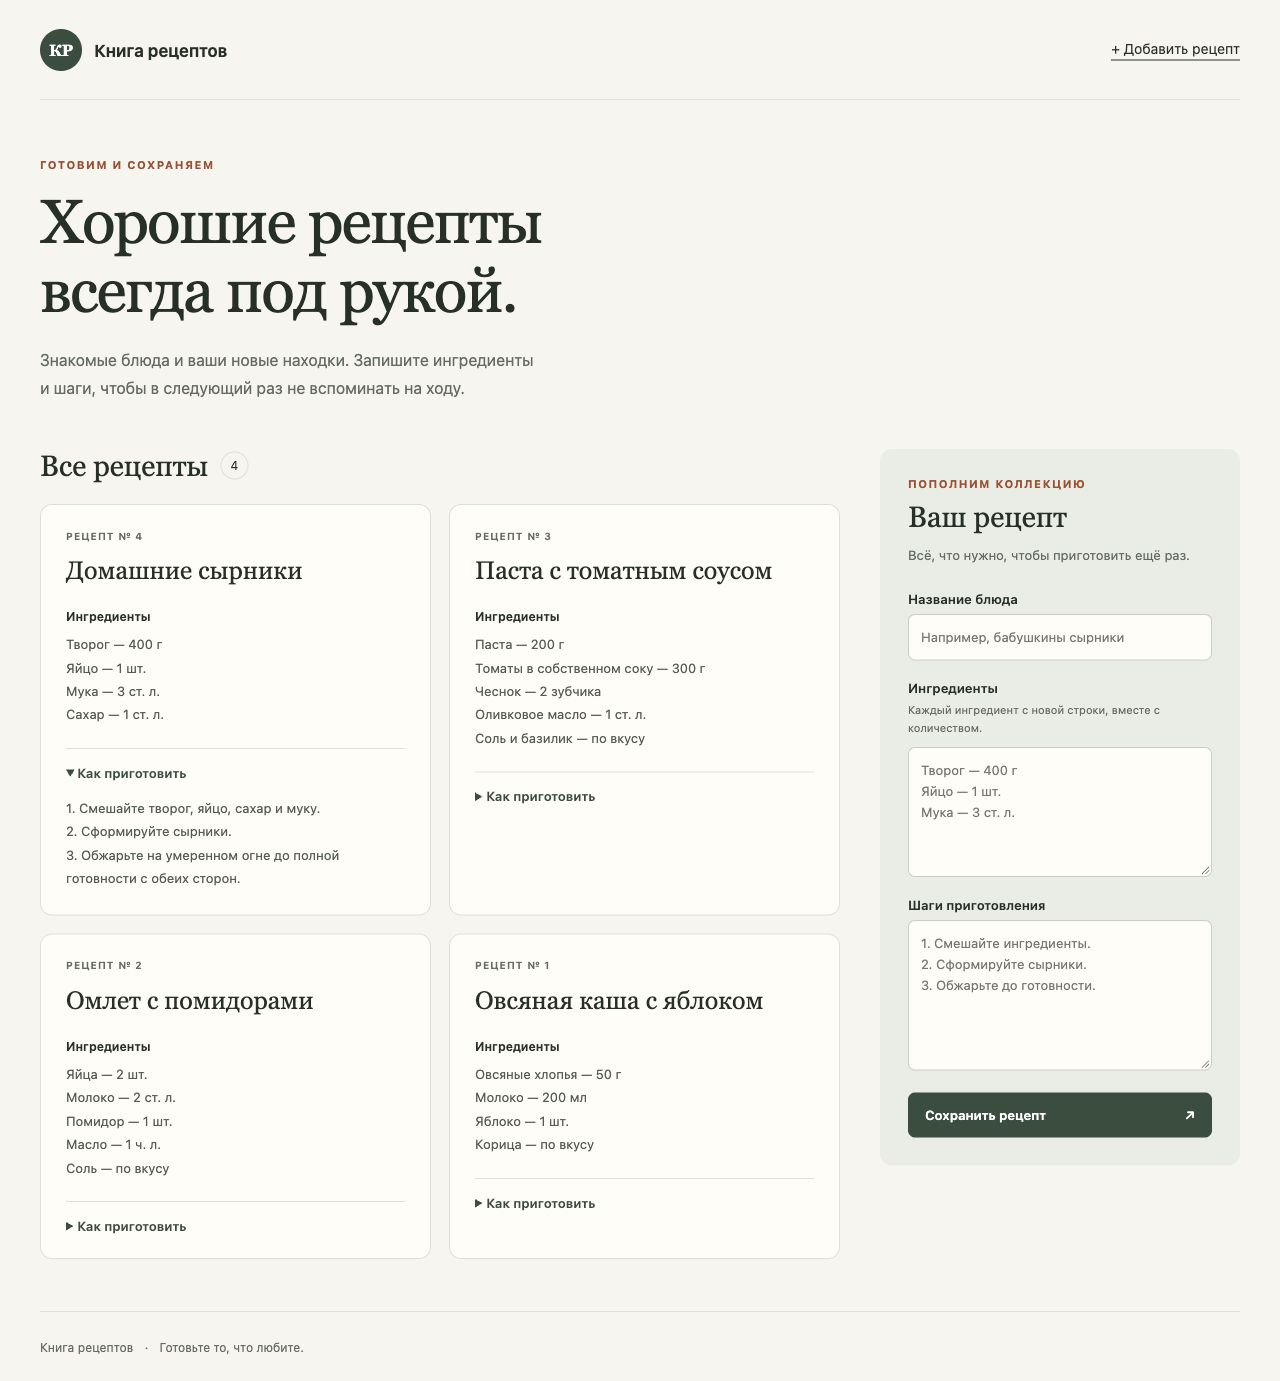
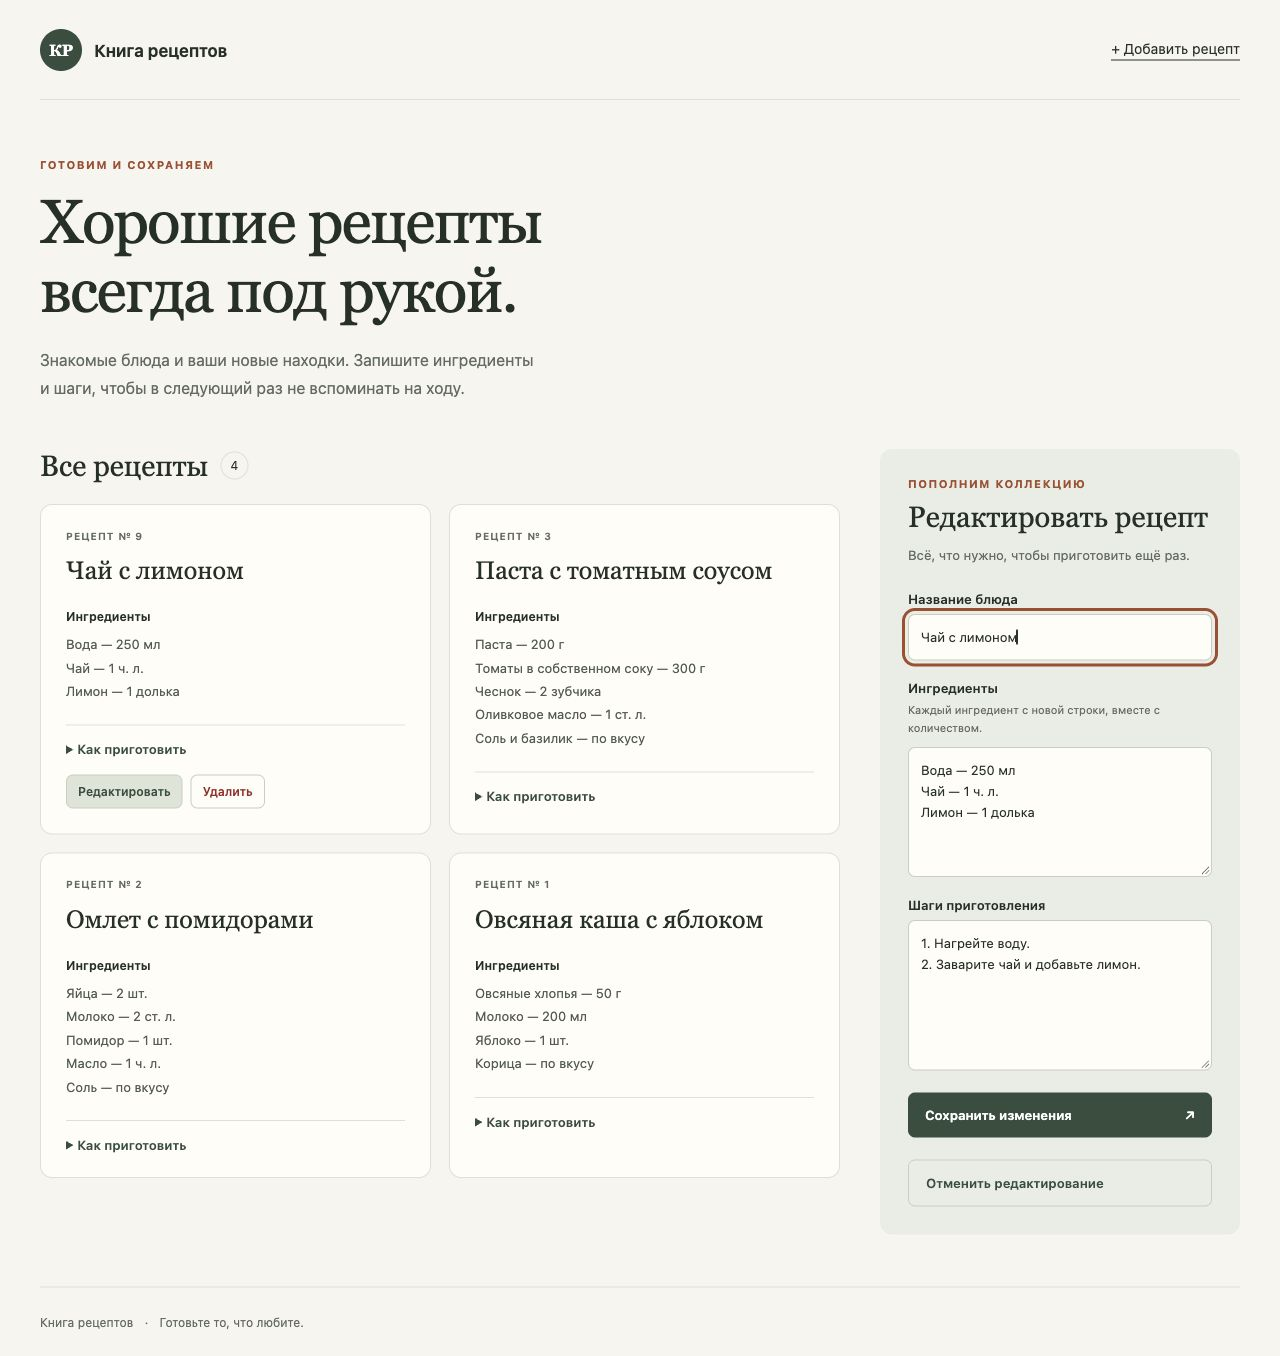
added support for editing and deleting user made recipes

diff --git a/frontend/app.js b/frontend/app.js
@@ -5,11 +5,16 @@ const form = document.querySelector("#recipe-form");
 const formStatus = document.querySelector("#form-status");
 const submit = document.querySelector("#submit-recipe");
 const template = document.querySelector("#recipe-template");
+const formTitle = document.querySelector("#form-title");
+const submitLabel = document.querySelector("#submit-label");
+const cancelEdit = document.querySelector("#cancel-edit");
+const deleteDialog = document.querySelector("#delete-dialog");
+let editingId = null;
 
-async function requestRecipes(options) {
+async function requestRecipes(options, id) {
   let response;
   try {
-    response = await fetch("/api/recipes", options);
+    response = await fetch(id === undefined ? "/api/recipes" : `/api/recipes/${id}`, options);
   } catch {
     throw new Error("Не удалось связаться с сервером. Проверьте список перед повторной отправкой.");
   }
@@ -24,13 +29,68 @@ async function requestRecipes(options) {
 }
 
 function recipeCard(recipe) {
-  const card = template.content.cloneNode(true);
+  const card = template.content.firstElementChild.cloneNode(true);
+  card.dataset.id = recipe.id;
   card.querySelector(".recipe-number").textContent = `РЕЦЕПТ № ${recipe.id}`;
   card.querySelector(".recipe-title").textContent = recipe.title;
   card.querySelector(".recipe-ingredients").textContent = recipe.ingredients;
   card.querySelector(".recipe-instructions").textContent = recipe.instructions;
+  card.querySelector(".recipe-actions").hidden = Boolean(recipe.is_builtin);
+  card.querySelector(".edit-recipe").addEventListener("click", () => {
+    editingId = recipe.id;
+    for (const field of ["title", "ingredients", "instructions"]) {
+      form.elements[field].value = recipe[field];
+    }
+    formTitle.textContent = "Редактировать рецепт";
+    submitLabel.textContent = "Сохранить изменения";
+    cancelEdit.hidden = false;
+    formStatus.textContent = "";
+    formStatus.classList.remove("error");
+    form.elements.title.focus();
+  });
+  card.querySelector(".delete-recipe").addEventListener("click", () => {
+    document.querySelector("#delete-description").textContent = `Рецепт «${recipe.title}» будет удалён.`;
+    deleteDialog.returnValue = "cancel";
+    deleteDialog.addEventListener("close", async () => {
+      if (deleteDialog.returnValue !== "delete") return;
+      setBusy(true);
+      listStatus.classList.remove("error");
+      try {
+        await requestRecipes({ method: "DELETE" }, recipe.id);
+        card.remove();
+        if (editingId === recipe.id) {
+          resetEditor();
+          formStatus.textContent = "Рецепт удалён.";
+        }
+        updateCount();
+      } catch (error) {
+        listStatus.textContent = error.message;
+        listStatus.classList.add("error");
+      } finally {
+        setBusy(false);
+      }
+    }, { once: true });
+    deleteDialog.showModal();
+  });
   return card;
 }
+
+function setBusy(busy) {
+  for (const control of form.elements) control.disabled = busy;
+  for (const button of recipes.querySelectorAll("button")) button.disabled = busy;
+}
+
+function resetEditor() {
+  editingId = null;
+  form.reset();
+  formTitle.textContent = "Ваш рецепт";
+  submitLabel.textContent = "Сохранить рецепт";
+  cancelEdit.hidden = true;
+  formStatus.textContent = "";
+  formStatus.classList.remove("error");
+}
+
+cancelEdit.addEventListener("click", resetEditor);
 
 function updateCount() {
   count.textContent = recipes.childElementCount;
@@ -52,26 +112,33 @@ async function loadRecipes() {
 
 form.addEventListener("submit", async (event) => {
   event.preventDefault();
+  if (submit.disabled) return;
+  const id = editingId;
+  const payload = JSON.stringify(Object.fromEntries(new FormData(form)));
   formStatus.textContent = "Сохраняем…";
   formStatus.classList.remove("error");
-  submit.disabled = true;
+  setBusy(true);
 
   try {
     const recipe = await requestRecipes({
-      method: "POST",
+      method: id === null ? "POST" : "PUT",
       headers: { "Content-Type": "application/json" },
-      body: JSON.stringify(Object.fromEntries(new FormData(form))),
-    });
-    recipes.prepend(recipeCard(recipe));
+      body: payload,
+    }, id === null ? undefined : id);
+    if (id === null) {
+      recipes.prepend(recipeCard(recipe));
+    } else {
+      recipes.querySelector(`[data-id="${id}"]`).replaceWith(recipeCard(recipe));
+    }
     listStatus.classList.remove("error");
     updateCount();
-    form.reset();
-    formStatus.textContent = "Рецепт сохранён. Можно готовить!";
+    resetEditor();
+    formStatus.textContent = id === null ? "Рецепт сохранён. Можно готовить!" : "Изменения сохранены.";
   } catch (error) {
     formStatus.textContent = error.message;
     formStatus.classList.add("error");
   } finally {
-    submit.disabled = false;
+    setBusy(false);
   }
 });
 

diff --git a/frontend/index.html b/frontend/index.html
@@ -49,7 +49,8 @@
           <label for="instructions">Шаги приготовления</label>
           <textarea id="instructions" name="instructions" rows="6" maxlength="10000" placeholder="1. Смешайте ингредиенты.&#10;2. Сформируйте сырники.&#10;3. Обжарьте до готовности." required></textarea>
 
-          <button id="submit-recipe" type="submit" disabled>Сохранить рецепт <span aria-hidden="true">↗</span></button>
+          <button id="submit-recipe" type="submit" disabled><span id="submit-label">Сохранить рецепт</span> <span aria-hidden="true">↗</span></button>
+          <button id="cancel-edit" class="secondary" type="button" hidden>Отменить редактирование</button>
           <p class="form-status" id="form-status" role="status" aria-live="polite"></p>
         </form>
       </aside>
@@ -57,6 +58,16 @@
   </main>
 
   <footer>Книга рецептов <span aria-hidden="true">·</span> Готовьте то, что любите.</footer>
+
+  <dialog id="delete-dialog" aria-labelledby="delete-title" aria-describedby="delete-description">
+    <h2 id="delete-title">Удалить рецепт?</h2>
+    <p id="delete-description"></p>
+    <p>Это действие нельзя отменить.</p>
+    <form method="dialog" class="recipe-actions">
+      <button class="secondary" value="cancel" autofocus>Отмена</button>
+      <button class="secondary delete-recipe" value="delete">Удалить рецепт</button>
+    </form>
+  </dialog>
 
   <template id="recipe-template">
     <article class="recipe-card">
@@ -68,6 +79,10 @@
         <summary>Как приготовить</summary>
         <p class="recipe-instructions"></p>
       </details>
+      <div class="recipe-actions" hidden>
+        <button class="edit-recipe secondary" type="button">Редактировать</button>
+        <button class="delete-recipe secondary" type="button">Удалить</button>
+      </div>
     </article>
   </template>
 </body>

diff --git a/frontend/style.css b/frontend/style.css
@@ -12,6 +12,7 @@
 }
 
 * { box-sizing: border-box; }
+[hidden] { display: none !important; }
 body { margin: 0; }
 a { color: inherit; }
 .header, main, footer { width: min(1200px, calc(100% - 80px)); margin-inline: auto; }
@@ -51,6 +52,14 @@ textarea { resize: vertical; min-height: 110px; }
 button { display: flex; justify-content: space-between; align-items: center; gap: 10px; width: 100%; border: 0; border-radius: 7px; background: var(--green); color: #fff; padding: 15px 17px; margin-top: 22px; cursor: pointer; font-size: 13px; font-weight: 600; }
 button:hover { background: #263e2e; }
 button:disabled { opacity: .6; cursor: wait; }
+.secondary { background: transparent; color: var(--green); border: 1px solid #c8cec2; }
+.secondary:hover { background: #dde4d6; }
+.recipe-actions { display: flex; flex-wrap: wrap; gap: 8px; margin-top: 18px; }
+.recipe-actions button { width: auto; margin-top: 0; padding: 9px 11px; font-size: 12px; }
+.delete-recipe { color: #9b2626; }
+dialog { width: min(440px, calc(100% - 32px)); padding: 28px; border: 1px solid var(--line); border-radius: 12px; background: var(--paper); color: var(--ink); }
+dialog::backdrop { background: rgb(37 47 41 / 45%); }
+dialog p { font-size: 14px; line-height: 1.6; overflow-wrap: anywhere; }
 :focus-visible { outline: 3px solid var(--orange); outline-offset: 3px; }
 .form-status { margin: 12px 0 0; font-size: 13px; line-height: 1.6; color: var(--green); }
 .form-status:empty { display: none; }

diff --git a/backend/app.py b/backend/app.py
@@ -3,7 +3,7 @@ from pathlib import Path
 
 import click
 import mysql.connector
-from flask import Flask, jsonify, request, send_from_directory
+from flask import Flask, abort, jsonify, request, send_from_directory
 from werkzeug.exceptions import HTTPException
 
 
@@ -41,19 +41,18 @@ def index():
 def list_recipes():
     with get_db() as db, db.cursor(dictionary=True) as cursor:
         cursor.execute(
-            "SELECT id, title, ingredients, instructions FROM recipes ORDER BY id DESC"
+            "SELECT id, title, ingredients, instructions, is_builtin FROM recipes ORDER BY id DESC"
         )
         return jsonify(cursor.fetchall())
 
 
-@app.post("/api/recipes")
-def add_recipe():
+def read_recipe():
     if not request.is_json:
-        return jsonify(error="Отправьте рецепт в формате JSON."), 415
+        abort(415, description="Отправьте рецепт в формате JSON.")
 
     data = request.get_json()
     if not isinstance(data, dict):
-        return jsonify(error="Рецепт должен быть JSON-объектом."), 400
+        abort(400, description="Рецепт должен быть JSON-объектом.")
 
     recipe = {}
     for field, label, limit in (
@@ -63,11 +62,17 @@ def add_recipe():
     ):
         value = data.get(field)
         if not isinstance(value, str) or not value.strip():
-            return jsonify(error=f'Заполните поле «{label}».'), 400
+            abort(400, description=f'Заполните поле «{label}».')
         value = value.strip()
         if len(value) > limit:
-            return jsonify(error=f'Поле «{label}»: максимум {limit} символов.'), 400
+            abort(400, description=f'Поле «{label}»: максимум {limit} символов.')
         recipe[field] = value
+    return recipe
+
+
+@app.post("/api/recipes")
+def add_recipe():
+    recipe = read_recipe()
 
     with get_db() as db, db.cursor() as cursor:
         cursor.execute(
@@ -76,7 +81,30 @@ def add_recipe():
         )
         recipe["id"] = cursor.lastrowid
         db.commit()
+    recipe["is_builtin"] = False
     return jsonify(recipe), 201
+
+
+@app.route("/api/recipes/<int:recipe_id>", methods=["PUT", "DELETE"])
+def change_recipe(recipe_id):
+    recipe = read_recipe() if request.method == "PUT" else None
+    with get_db() as db, db.cursor(dictionary=True) as cursor:
+        cursor.execute("SELECT is_builtin FROM recipes WHERE id = %s FOR UPDATE", (recipe_id,))
+        existing = cursor.fetchone()
+        if existing is None:
+            abort(404, description="Рецепт не найден.")
+        if existing["is_builtin"]:
+            abort(403, description="Начальные рецепты нельзя редактировать или удалять.")
+        if request.method == "DELETE":
+            cursor.execute("DELETE FROM recipes WHERE id = %s", (recipe_id,))
+            db.commit()
+            return jsonify(deleted=recipe_id)
+        cursor.execute(
+            "UPDATE recipes SET title = %s, ingredients = %s, instructions = %s WHERE id = %s",
+            (recipe["title"], recipe["ingredients"], recipe["instructions"], recipe_id),
+        )
+        db.commit()
+    return jsonify(id=recipe_id, is_builtin=False, **recipe)
 
 
 @app.errorhandler(mysql.connector.Error)
@@ -126,13 +154,23 @@ def init_db():
                 "id INT AUTO_INCREMENT PRIMARY KEY, "
                 "title VARCHAR(255) NOT NULL, "
                 "ingredients TEXT NOT NULL, "
-                "instructions TEXT NOT NULL"
+                "instructions TEXT NOT NULL, "
+                "is_builtin BOOLEAN NOT NULL DEFAULT FALSE"
                 ") ENGINE=InnoDB DEFAULT CHARSET=utf8mb4"
+            )
+            cursor.execute("SHOW COLUMNS FROM recipes LIKE 'is_builtin'")
+            if cursor.fetchone() is None:
+                cursor.execute("ALTER TABLE recipes ADD COLUMN is_builtin BOOLEAN NOT NULL DEFAULT FALSE")
+            # Legacy seeds were inserted first; matching their content preserves user recipes.
+            cursor.executemany(
+                "UPDATE recipes SET is_builtin = TRUE WHERE id = %s "
+                "AND title = %s AND ingredients = %s AND instructions = %s",
+                [(recipe_id, *recipe) for recipe_id, recipe in enumerate(seeds, 1)],
             )
             cursor.execute("SELECT COUNT(*) FROM recipes")
             if cursor.fetchone()[0] == 0:
                 cursor.executemany(
-                    "INSERT INTO recipes (title, ingredients, instructions) VALUES (%s, %s, %s)",
+                    "INSERT INTO recipes (title, ingredients, instructions, is_builtin) VALUES (%s, %s, %s, TRUE)",
                     seeds,
                 )
             db.commit()

diff --git a/tests/test_app.py b/tests/test_app.py
@@ -30,13 +30,14 @@ class ApiTests(unittest.TestCase):
         invalid = [None, [], "recipe", {}, {**valid, "title": "   "}]
         for field, limit in (("title", 255), ("ingredients", 10000), ("instructions", 10000)):
             invalid.extend(({**valid, field: 42}, {**valid, field: "я" * (limit + 1)}))
-        for payload in invalid:
-            with self.subTest(payload=str(payload)[:80]):
-                response = self.client.post(
-                    "/api/recipes", data=json.dumps(payload), content_type="application/json"
-                )
-                self.assertEqual(response.status_code, 400)
-                self.assertIn("error", response.json)
+        for method, path in (("POST", "/api/recipes"), ("PUT", "/api/recipes/1")):
+            for payload in invalid:
+                with self.subTest(method=method, payload=str(payload)[:80]):
+                    response = self.client.open(
+                        path, method=method, data=json.dumps(payload), content_type="application/json"
+                    )
+                    self.assertEqual(response.status_code, 400)
+                    self.assertIn("error", response.json)
         connect.assert_not_called()
 
     def test_only_json_posts_are_accepted(self):
@@ -97,9 +98,52 @@ class MySQLTests(unittest.TestCase):
                 cursor.execute("SELECT * FROM recipes WHERE id = %s", (recipe_id,))
                 stored = cursor.fetchone()
             expected = {key: value.strip() for key, value in payload.items()}
-            self.assertEqual(stored, {"id": recipe_id, **expected})
+            self.assertEqual(stored, {"id": recipe_id, "is_builtin": False, **expected})
             recipes = app.test_client().get("/api/recipes").json
             self.assertIn(stored, recipes)
+        finally:
+            with get_db() as db, db.cursor() as cursor:
+                cursor.execute("DELETE FROM recipes WHERE id = %s", (recipe_id,))
+                db.commit()
+
+    def test_update_delete_and_builtin_protection(self):
+        client = app.test_client()
+        before = client.get("/api/recipes").json
+        builtin = next(recipe for recipe in before if recipe["is_builtin"])
+        payload = {
+            "title": f"Проверка редактирования {uuid4()}",
+            "ingredients": "Вода — 100 мл",
+            "instructions": "Налить воду.",
+            "is_builtin": False,
+        }
+        builtin_path = f'/api/recipes/{builtin["id"]}'
+        self.assertEqual(client.put(builtin_path, json=payload).status_code, 403)
+        self.assertEqual(client.delete(builtin_path).status_code, 403)
+        self.assertEqual(client.get("/api/recipes").json, before)
+
+        created = client.post("/api/recipes", json={**payload, "is_builtin": True})
+        self.assertEqual(created.status_code, 201)
+        self.assertFalse(created.json["is_builtin"])
+        recipe_id = created.json["id"]
+        path = f"/api/recipes/{recipe_id}"
+        try:
+            updated = client.put(path, json={**payload, "title": "  Обновлённый рецепт 🍲  "})
+            self.assertEqual(updated.status_code, 200)
+            self.assertEqual(updated.json["id"], recipe_id)
+            self.assertEqual(updated.json["title"], "Обновлённый рецепт 🍲")
+            self.assertIn(updated.json, app.test_client().get("/api/recipes").json)
+            repeated = client.put(path, json=updated.json)
+            self.assertEqual(repeated.status_code, 200)
+            self.assertEqual(repeated.json, updated.json)
+
+            invalid = client.put(path, json={**payload, "ingredients": "  "})
+            self.assertEqual(invalid.status_code, 400)
+            self.assertIn(updated.json, client.get("/api/recipes").json)
+
+            self.assertEqual(client.delete(path).status_code, 200)
+            self.assertEqual(client.get("/api/recipes").json, before)
+            self.assertEqual(client.delete(path).status_code, 404)
+            self.assertEqual(client.put(path, json=payload).status_code, 404)
         finally:
             with get_db() as db, db.cursor() as cursor:
                 cursor.execute("DELETE FROM recipes WHERE id = %s", (recipe_id,))
